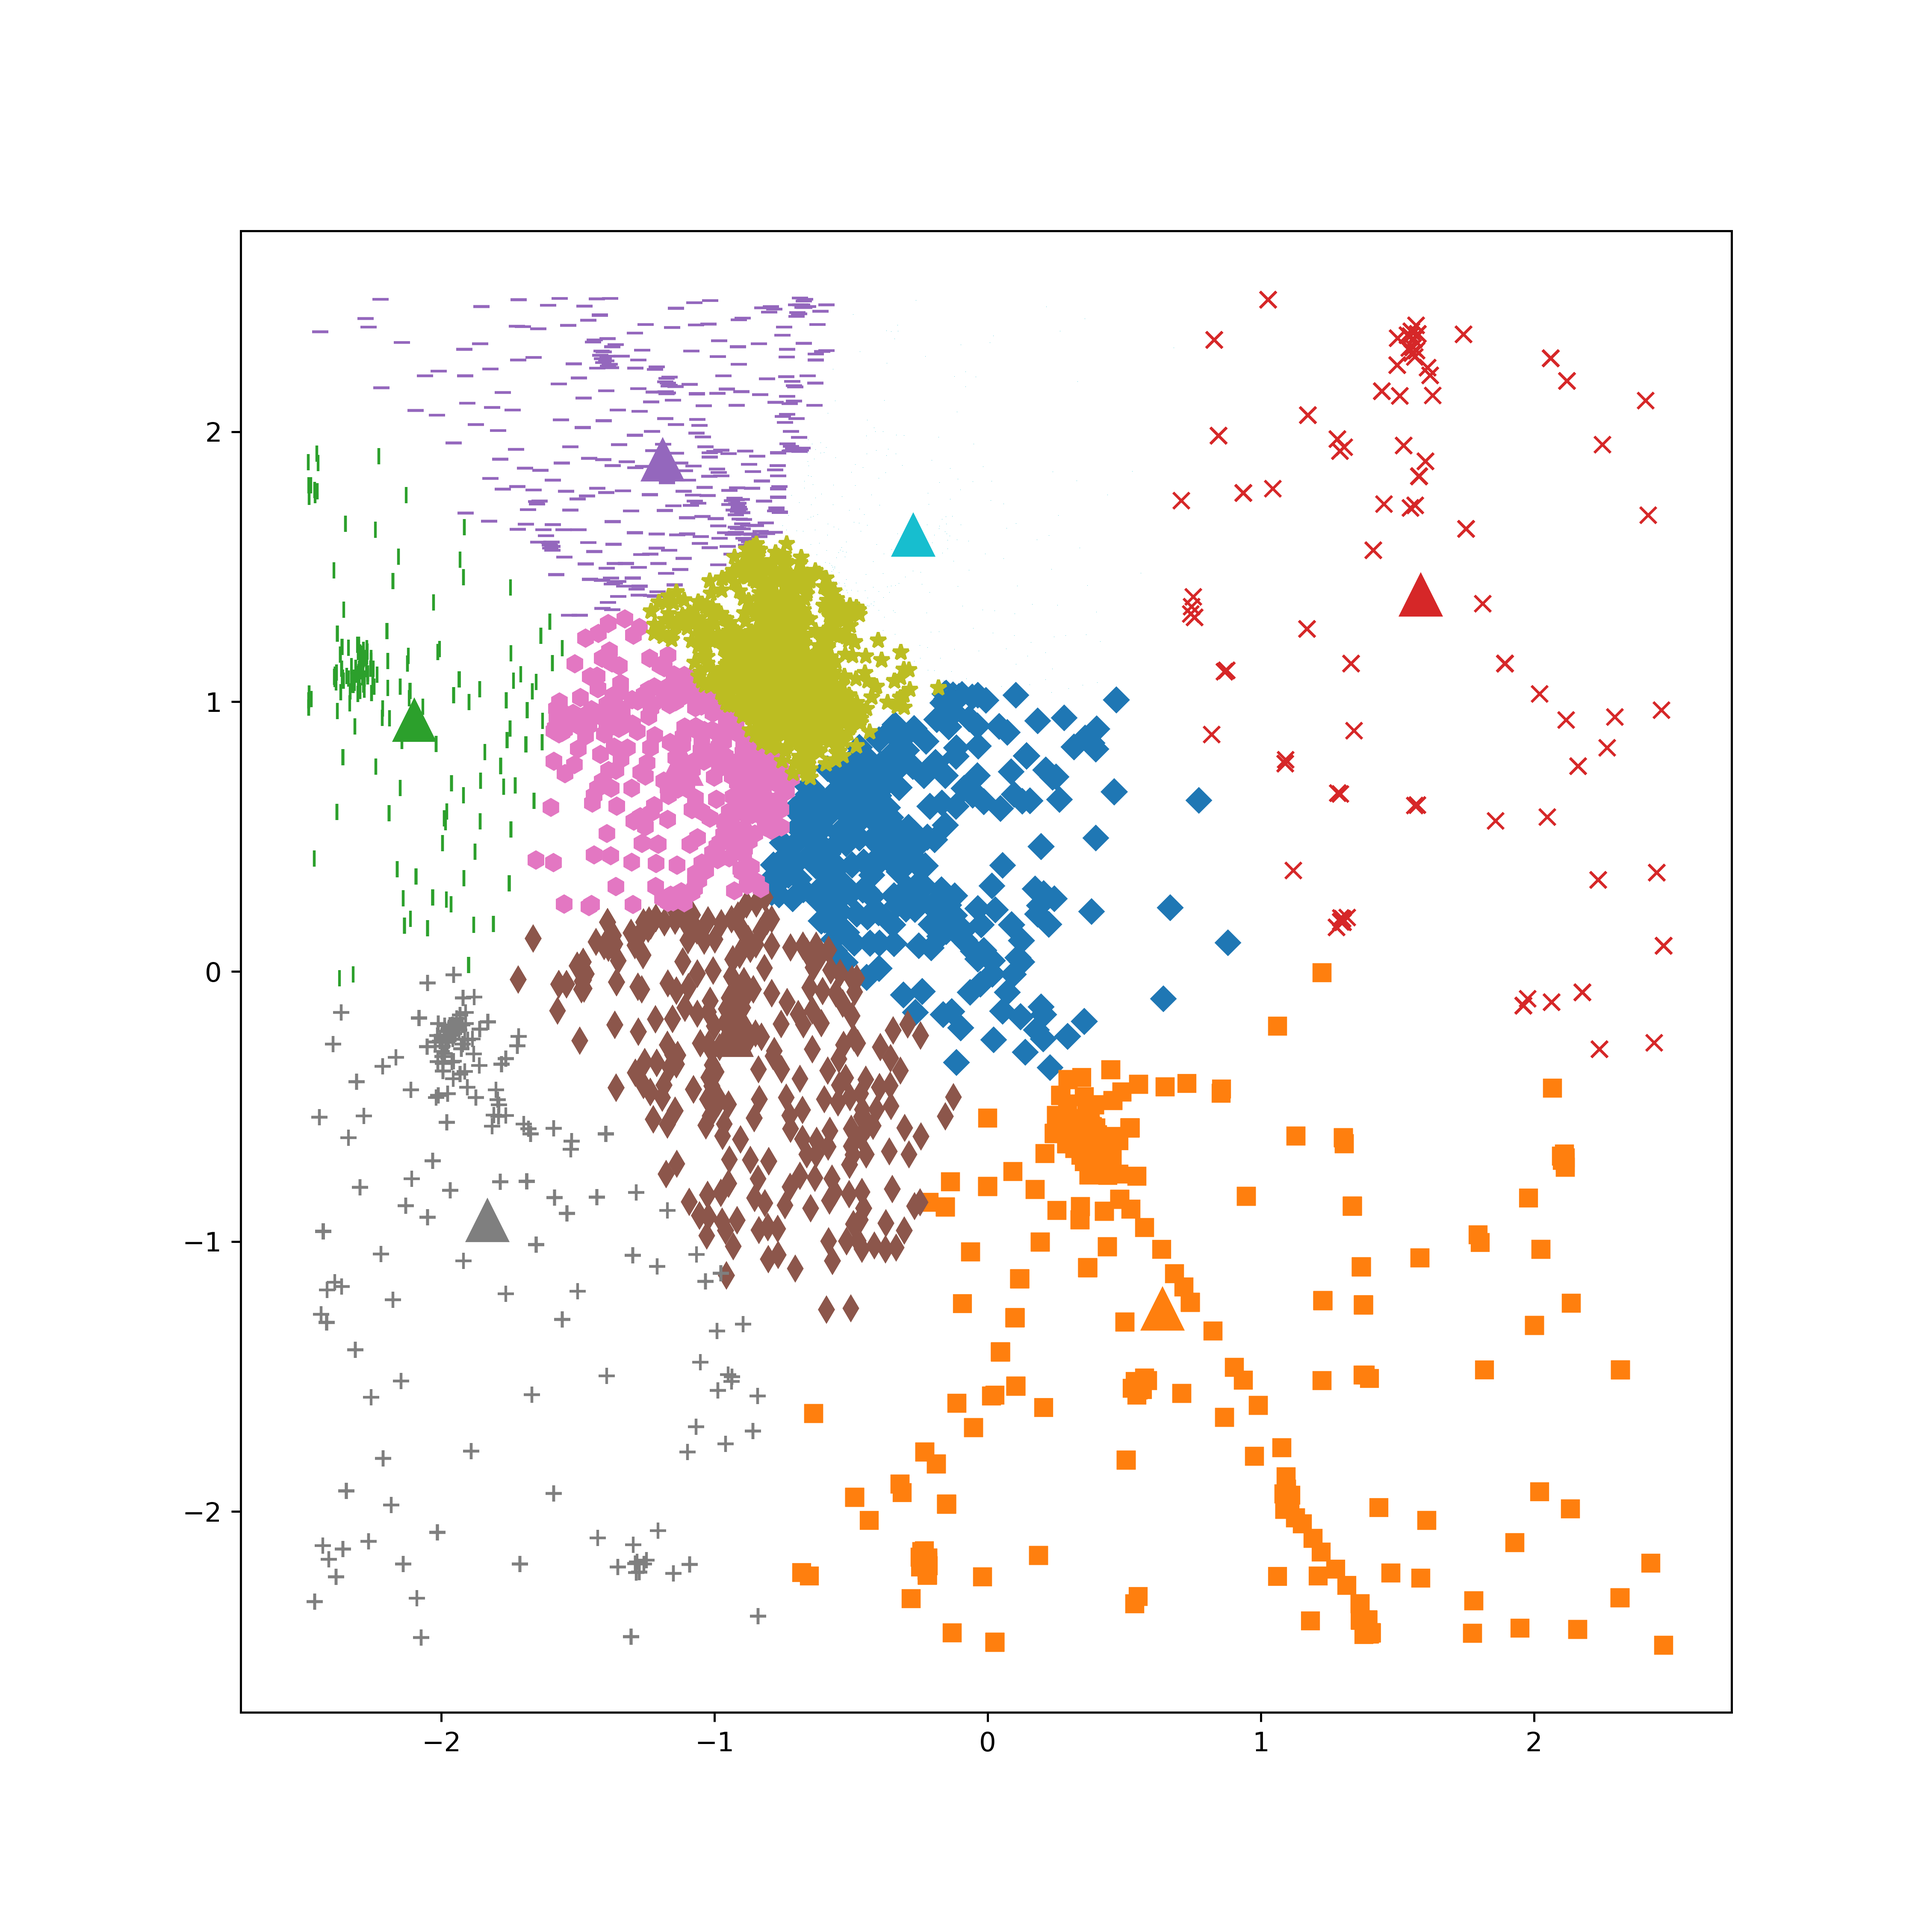
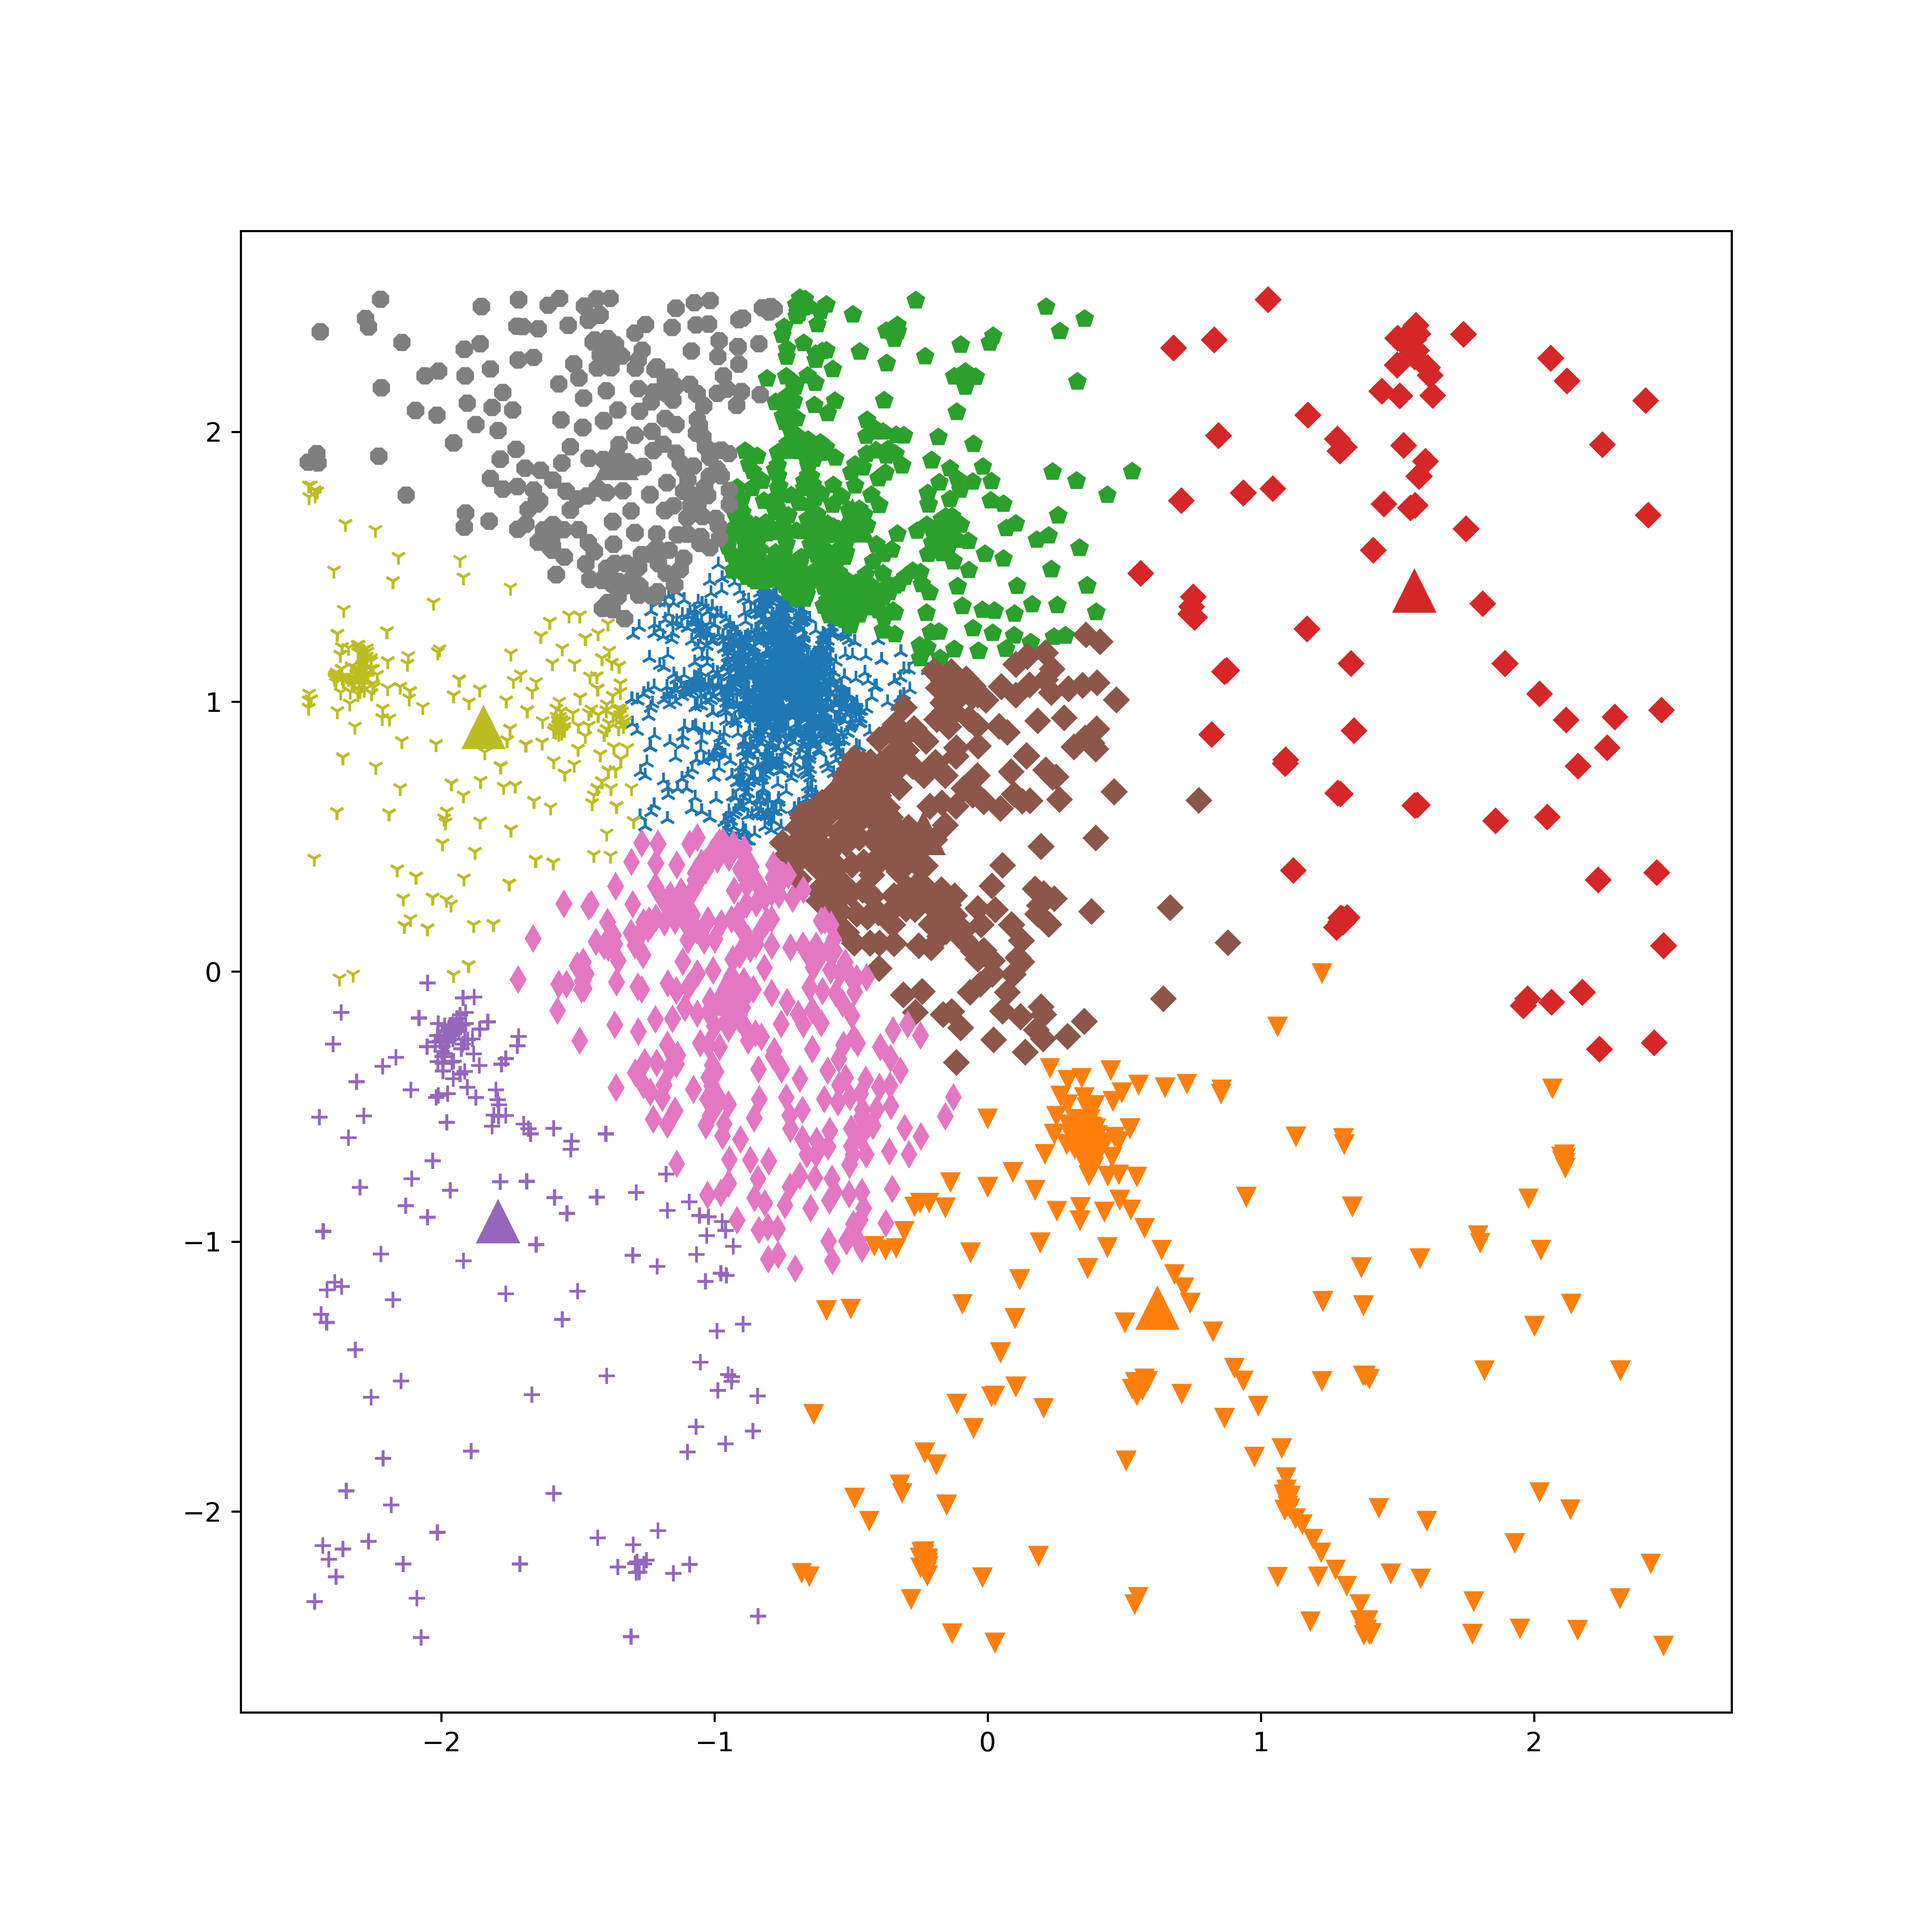
fix

diff --git a/kmeans.py b/kmeans.py
@@ -5,6 +5,7 @@ import matplotlib.colors as mcolors
 import matplotlib
 import numpy as np
 from tqdm import tqdm
+from random import shuffle
 
 
 class KMeans:
@@ -83,7 +84,6 @@ class KMeans:
         if dim != 2:
             print("The dimension of your data is not 2!")
             return 1
-
         markers = {'D': 'diamond', 's': 'square', '|': 'vline',
                    'x': 'x', '_': 'hline', 'd': 'thin_diamond',
                    'h': 'hexagon1', '+': 'plus', '*': 'star',
@@ -92,22 +92,41 @@ class KMeans:
                    '3': 'tri_left', '2': 'tri_up', '4': 'tri_right',
                    'H': 'hexagon2', 'v': 'triangle_down',
                    '8': 'octagon', '<': 'triangle_left', '>': 'triangle_right'}
+        markers = np.asarray(list(markers.keys()))
         colors = list(mcolors.TABLEAU_COLORS.values()) +\
                  list(mcolors.CSS4_COLORS.values())
-        if self.k > len(list(markers.keys())):
+
+        if self.k > len(markers):
             print("k is too large! Make 'markers' more")
             return 1
-        fig, ax = plt.subplots(figsize=(10,10))
+
+        fig, ax = plt.subplots(figsize=(10, 10))
+        plt.plot(self.dataSet, '.')
+        plt.savefig('source.png', dpi=450)
+        plt.show()
+
+        fig, ax = plt.subplots(figsize=(10, 10))
+        for i in range(self.k):
+            tmp = np.where(self.clustersIndexDist[:, 0] == i)[0]
+            tmp_ = self.dataSet[tmp]
+            plt.plot(tmp_[:, 0], tmp_[:, 1])
+        plt.savefig('draw.png', dpi=450)
+        plt.show()
+
+        fig, ax = plt.subplots(figsize=(10, 10))
         for i in range(self.k):
             markIndex = i
             tmp = np.where(self.clustersIndexDist[:, 0] == i)[0]
             tmp_ = self.dataSet[tmp]
-            plt.plot(tmp_[:, 0], tmp_[:, 1], list(markers.keys())[markIndex],
+            np.random.shuffle(markers)
+            plt.plot(tmp_[:, 0], tmp_[:, 1],
+                     markers[markIndex],
                      c=colors[i], markersize=6)
             del tmp, tmp_
 
         # draw centers
         for i in range(self.k):
-            plt.plot(self.centers[i, 0], self.centers[i, 1], '^', c=colors[i], markersize=15)
+            plt.plot(self.centers[i, 0], self.centers[i, 1],
+                     '^', c=colors[i], markersize=15)
         plt.savefig('res.png', dpi=450)
         plt.show()

diff --git a/README.md b/README.md
@@ -1,3 +1,5 @@
 # ML-kmeans
-
+BEFORE
+![source](source.png)
+AFTER
 ![res](res.png)
